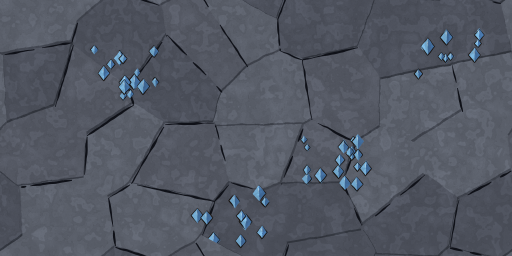
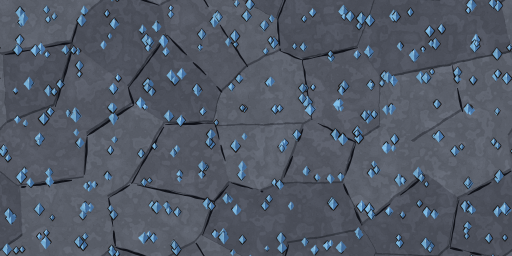
feat(art): lay ore in every cell of a vein's sheet
Copper and ice drew four clusters a sheet and iron twelve, so a 1-3 cell
pocket often held no ore pixels; a later copy of a repeating sheet also
covered ore near its edges. Each of the sheet's 128 cells now holds a
small cluster in today's chip and bubble drawing, emitted so the last
copy draws every image over all the stone.

diff --git a/tools/anime-art/subjects/caves.js b/tools/anime-art/subjects/caves.js
@@ -81,42 +81,69 @@ function groundSheet(look, seed, dim) {
   } };
 }
 
-/** Ice flecks over a wall of stone, in a few clusters, as the vein's sheet draws them. */
+// The finish draws a repeating sheet nine times, a copy at a time, the whole picture each time: a later copy's stone, reaching a few
+// pixels past the sheet's edge, would paint over ore an earlier copy left near that edge. What is drawn through on() goes out shifted
+// so its every image inside the sheet comes from the last copy, over all the stone.
+const NUM = /-?\d*\.?\d+(?:e-?\d+)?/g;
+const shiftPath = (d, dx, dy) => { let i = 0; return d.replace(NUM, (v) => String(+(+v + (i++ % 2 ? dy : dx)).toFixed(3))); };
+const SHIFTED = ['shade', 'deep', 'lite', 'spec', 'lines'];
+function on(a, W = 128, H = 64) {
+  const sh = (v, dx, dy) => (typeof v === 'string' ? shiftPath(v, dx, dy) : Array.isArray(v) ? v.map((q) => sh(q, dx, dy)) : v);
+  const emit = (d, fn) => {
+    const n = d.match(NUM).map(Number);
+    let x0 = Infinity, x1 = -Infinity, y0 = Infinity, y1 = -Infinity;
+    for (let i = 0; i + 1 < n.length; i += 2) { x0 = Math.min(x0, n[i]); x1 = Math.max(x1, n[i]); y0 = Math.min(y0, n[i + 1]); y1 = Math.max(y1, n[i + 1]); }
+    for (let j = -1; j <= 1; j++) for (let i = -1; i <= 1; i++)
+      if (x1 + i * W > 0 && x0 + i * W < W && y1 + j * H > 0 && y0 + j * H < H) fn((i - 1) * W, (j - 1) * H);
+  };
+  return {
+    shape(d, m, o = {}) { emit(d, (dx, dy) => { const p = { ...o }; for (const k of SHIFTED) if (k in o) p[k] = sh(o[k], dx, dy); a.shape(shiftPath(d, dx, dy), m, p); }); },
+    flat(d, c, o) { emit(d, (dx, dy) => a.flat(shiftPath(d, dx, dy), c, o)); },
+  };
+}
+
+/** The middle of each of a vein sheet's 16 × 8 cells, row by row: ore is laid in every one, so any vein cell cut from the sheet holds some. */
+const CELLS = [];
+for (let j = 0; j < 8; j++) for (let i = 0; i < 16; i++) CELLS.push([i * 8 + 4, j * 8 + 4]);
+
+/** Flecks of ore over a wall of stone (ice by default, copper with its paint): a small cluster in every cell of the sheet. */
 function veined(base, paint = VEIN, seed = 0x1ce) {
   return { ...base, draw(a) {
     base.draw(a);
+    a = on(a);
     const r = rng(seed);
-    for (const [cx, cy, n] of [[30, 18, 14], [84, 40, 18], [112, 12, 9], [58, 54, 10]])
-      for (let i = 0; i < n; i++) {
-        const x = cx + (r() - .5) * 18, y = cy + (r() - .5) * 13, s = .9 + r() * 1.3;
+    for (const [cx, cy] of CELLS) {
+      const x0 = cx + (r() - .5) * 4.6, y0 = cy + (r() - .5) * 4.4;
+      for (let i = 0, n = 2 + (r() < .5 ? 1 : 0); i < n; i++) {
+        const x = x0 + (r() - .5) * 4.4, y = y0 + (r() - .5) * 3.6, s = .8 + r() * .9;
         a.shape(poly(x, y - s, x + s * .8, y, x, y + s, x - s * .8, y), paint, { outer: false, shade: poly(x, y - s, x + s * .8, y, x, y + s), spec: poly(x - .3, y - s * .5, x, y - s * .7, x, y) });
       }
+    }
   } };
 }
 
-// Iron (the user's pick, 2026-11-07: kidney ore): clumps of dark red-grey bubbles, each with a hard metallic highlight. Commoner
-// than copper, so more clusters, spread so a vein cell often holds some.
+// Iron (the user's pick, 2026-11-07: kidney ore): clumps of dark red-grey bubbles, each with a hard metallic highlight, a clump in
+// every cell of the sheet.
 const IRON_VEIN = { base: '#4c3438', shade: '#2e1e22', deep: '#1e1416', lite: '#8a6c70', spec: '#e0d0d4', ink: '#140a0c' };
-const IRON_CLUSTERS = [[16, 10, 12], [50, 12, 14], [82, 8, 10], [114, 13, 12], [30, 32, 12], [64, 34, 14], [98, 30, 12], [124, 38, 8], [12, 54, 10], [46, 55, 12], [80, 52, 12], [110, 56, 14]];
 
-/** Kidney ore over a wall of stone: per cluster, a few groups of bubbles on a dark stain, the upper ones drawn first. */
+/** Kidney ore over a wall of stone: per cell, a group of bubbles on a dark stain, the upper ones drawn first. */
 function ironVeined(base, seed = 0x1a3) {
   return { ...base, draw(a) {
     base.draw(a);
+    a = on(a);
     const r = rng(seed);
     const torn = (x, y, rx, ry, n, j) => {
       const p = [];
       for (let i = 0; i < n; i++) { const t = (i / n) * Math.PI * 2 + (r() - .5) * .5, k = 1 - j + r() * j * 1.6; p.push(x + Math.cos(t) * rx * k, y + Math.sin(t) * ry * k); }
       return poly(p);
     };
-    for (const [cx, cy, n] of IRON_CLUSTERS)
-      for (let g = 0, groups = 2 + Math.floor(n / 6); g < groups; g++) {
-        const gx = cx + (r() - .5) * 18, gy = cy + (r() - .5) * 13, bub = [];
-        for (let i = 0, m = 3 + Math.floor(r() * 3); i < m; i++) bub.push([gx + (r() - .5) * 4.2, gy + (r() - .5) * 2.4, .7 + r() * 1.05]);
-        a.flat(torn(gx, gy + .3, 3.2, 2, 9, .3), '#33262a');
-        bub.sort((p, q) => p[1] - q[1]);
-        for (const [x, y, s] of bub) a.shape(ell(x, y, s, s * .9), IRON_VEIN, { outer: false, shade: s * .45, lite: ell(x - s * .3, y - s * .35, s * .42, s * .3), spec: ell(x - s * .38, y - s * .42, s * .16, s * .11) });
-      }
+    for (const [cx, cy] of CELLS) {
+      const gx = cx + (r() - .5) * 4.4, gy = cy + (r() - .5) * 4.4, bub = [];
+      for (let i = 0, m = 3 + Math.floor(r() * 2); i < m; i++) bub.push([gx + (r() - .5) * 3.8, gy + (r() - .5) * 2.4, .7 + r() * .6]);
+      a.flat(torn(gx, gy + .3, 3, 1.9, 9, .3), '#33262a');
+      bub.sort((p, q) => p[1] - q[1]);
+      for (const [x, y, s] of bub) a.shape(ell(x, y, s, s * .9), IRON_VEIN, { outer: false, shade: s * .45, lite: ell(x - s * .3, y - s * .35, s * .42, s * .3), spec: ell(x - s * .38, y - s * .42, s * .16, s * .11) });
+    }
   } };
 }
 
